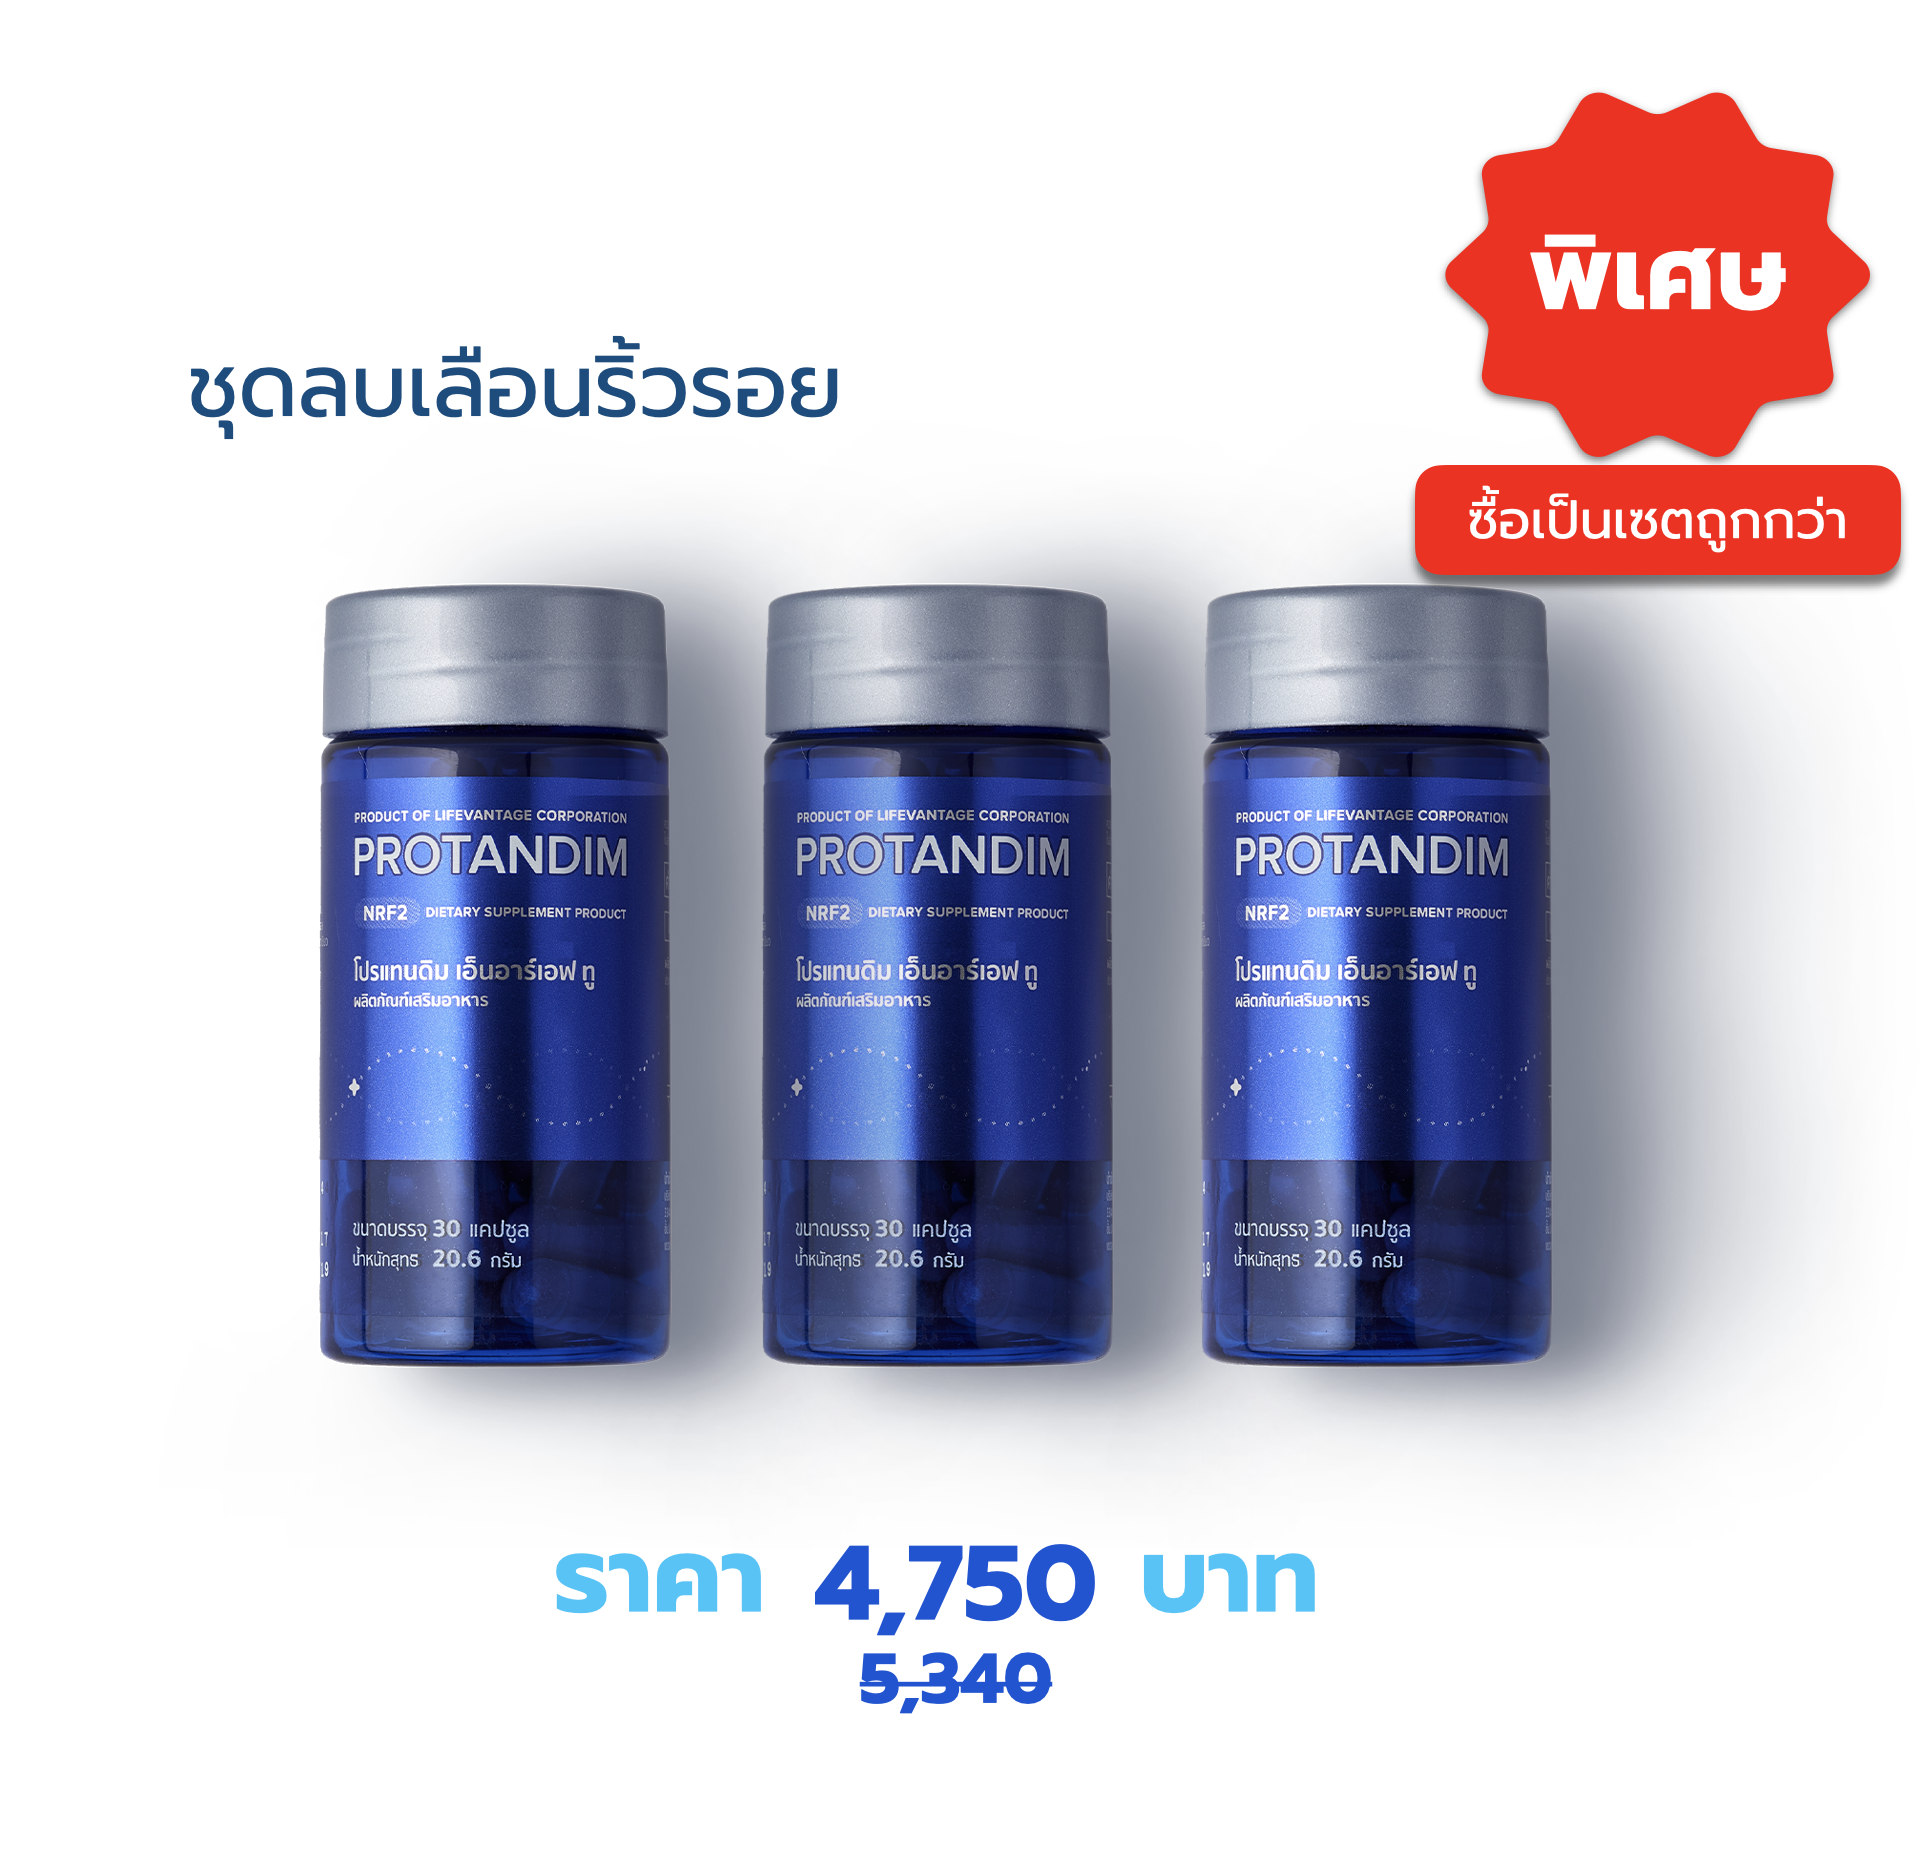
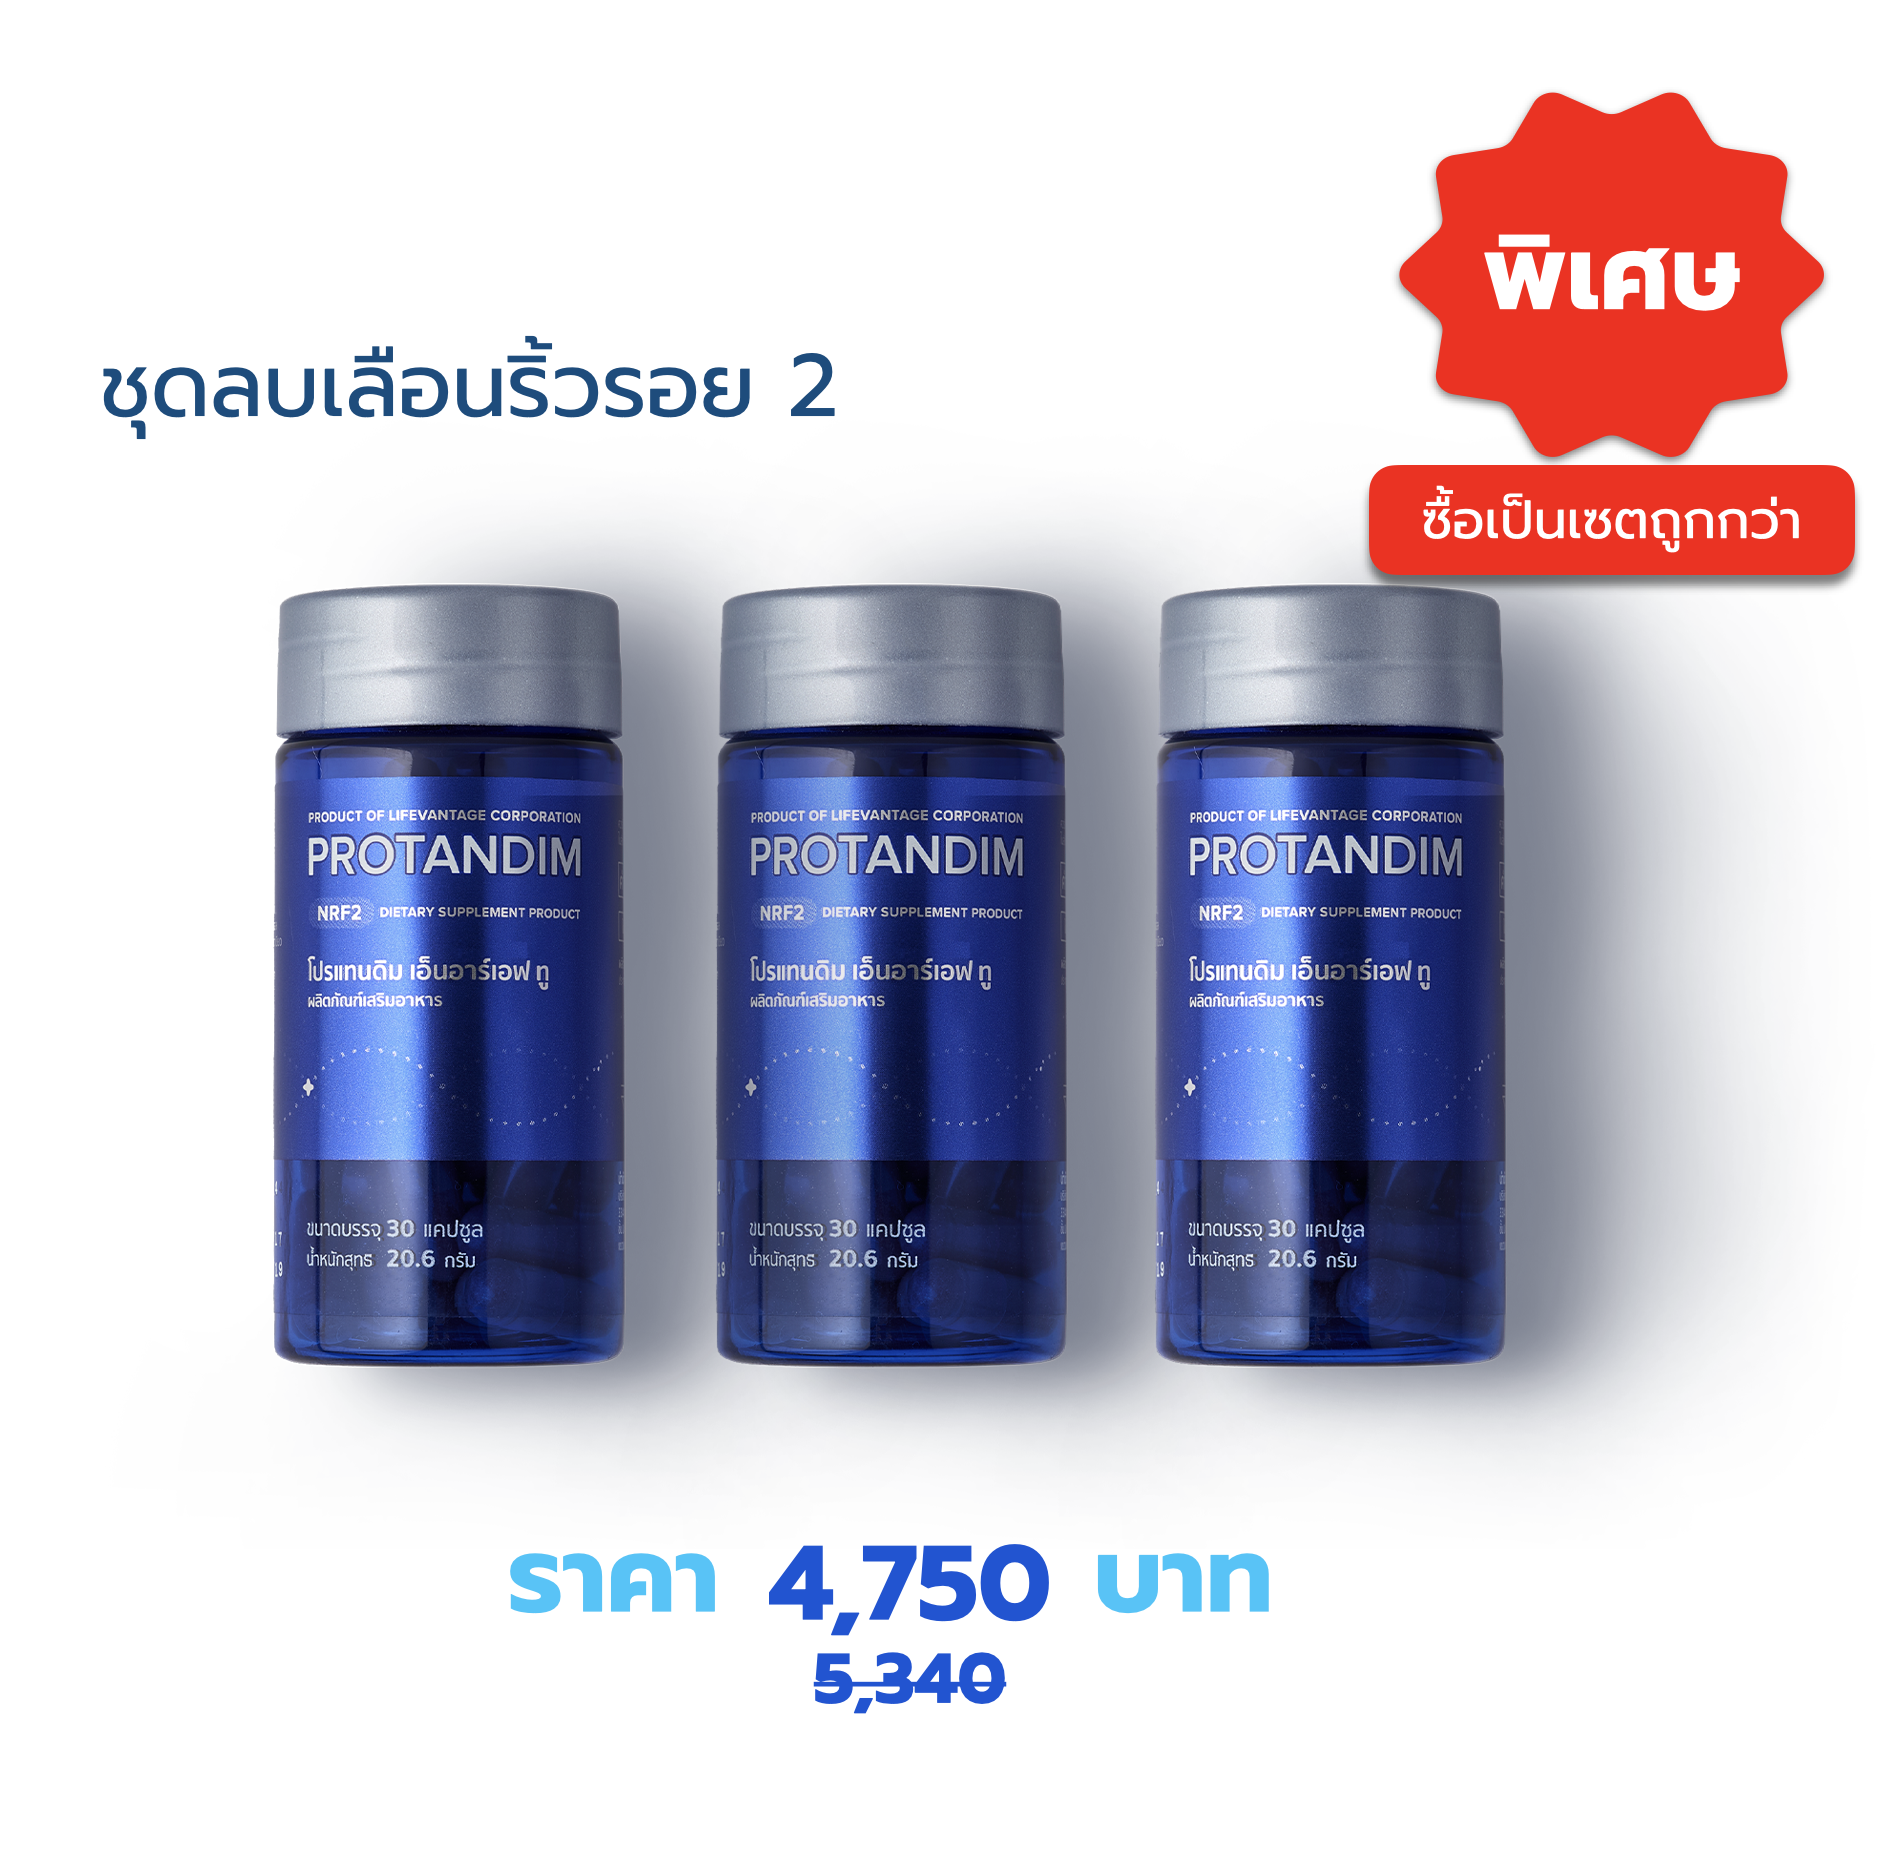
Update Bronze Image

diff --git a/src/pages/pricing.js b/src/pages/pricing.js
@@ -127,7 +127,7 @@ const Pricing = () => (
           />
         </center>
         <br />
-        <h5><b>ชุดดูแลลำไส้</b></h5>
+        <h5><b>ชุดลบเลือนริ้วรอย 2</b></h5>
       </Col>
     </Row>
     <Row xs={1} md={1}>
